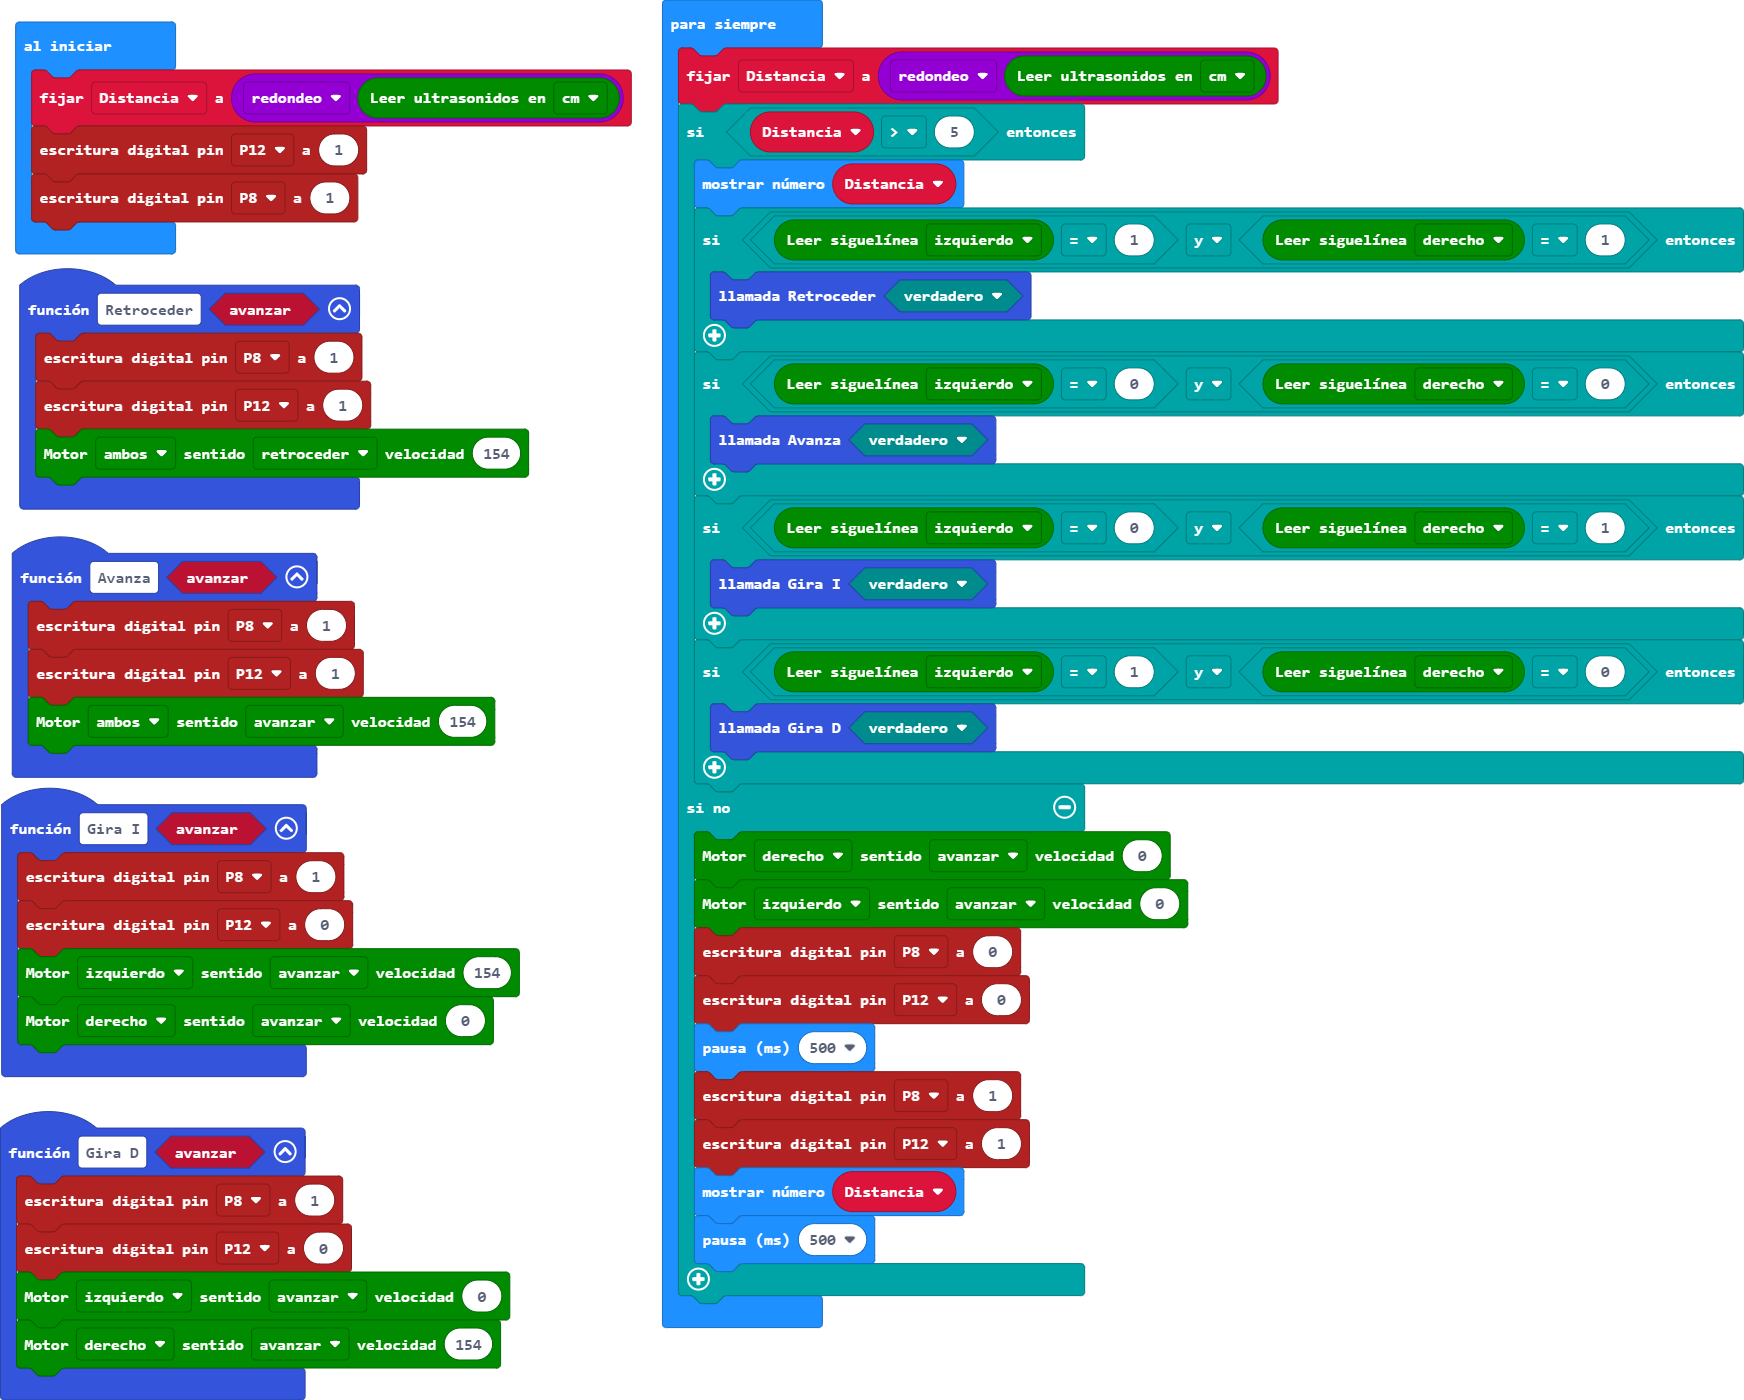
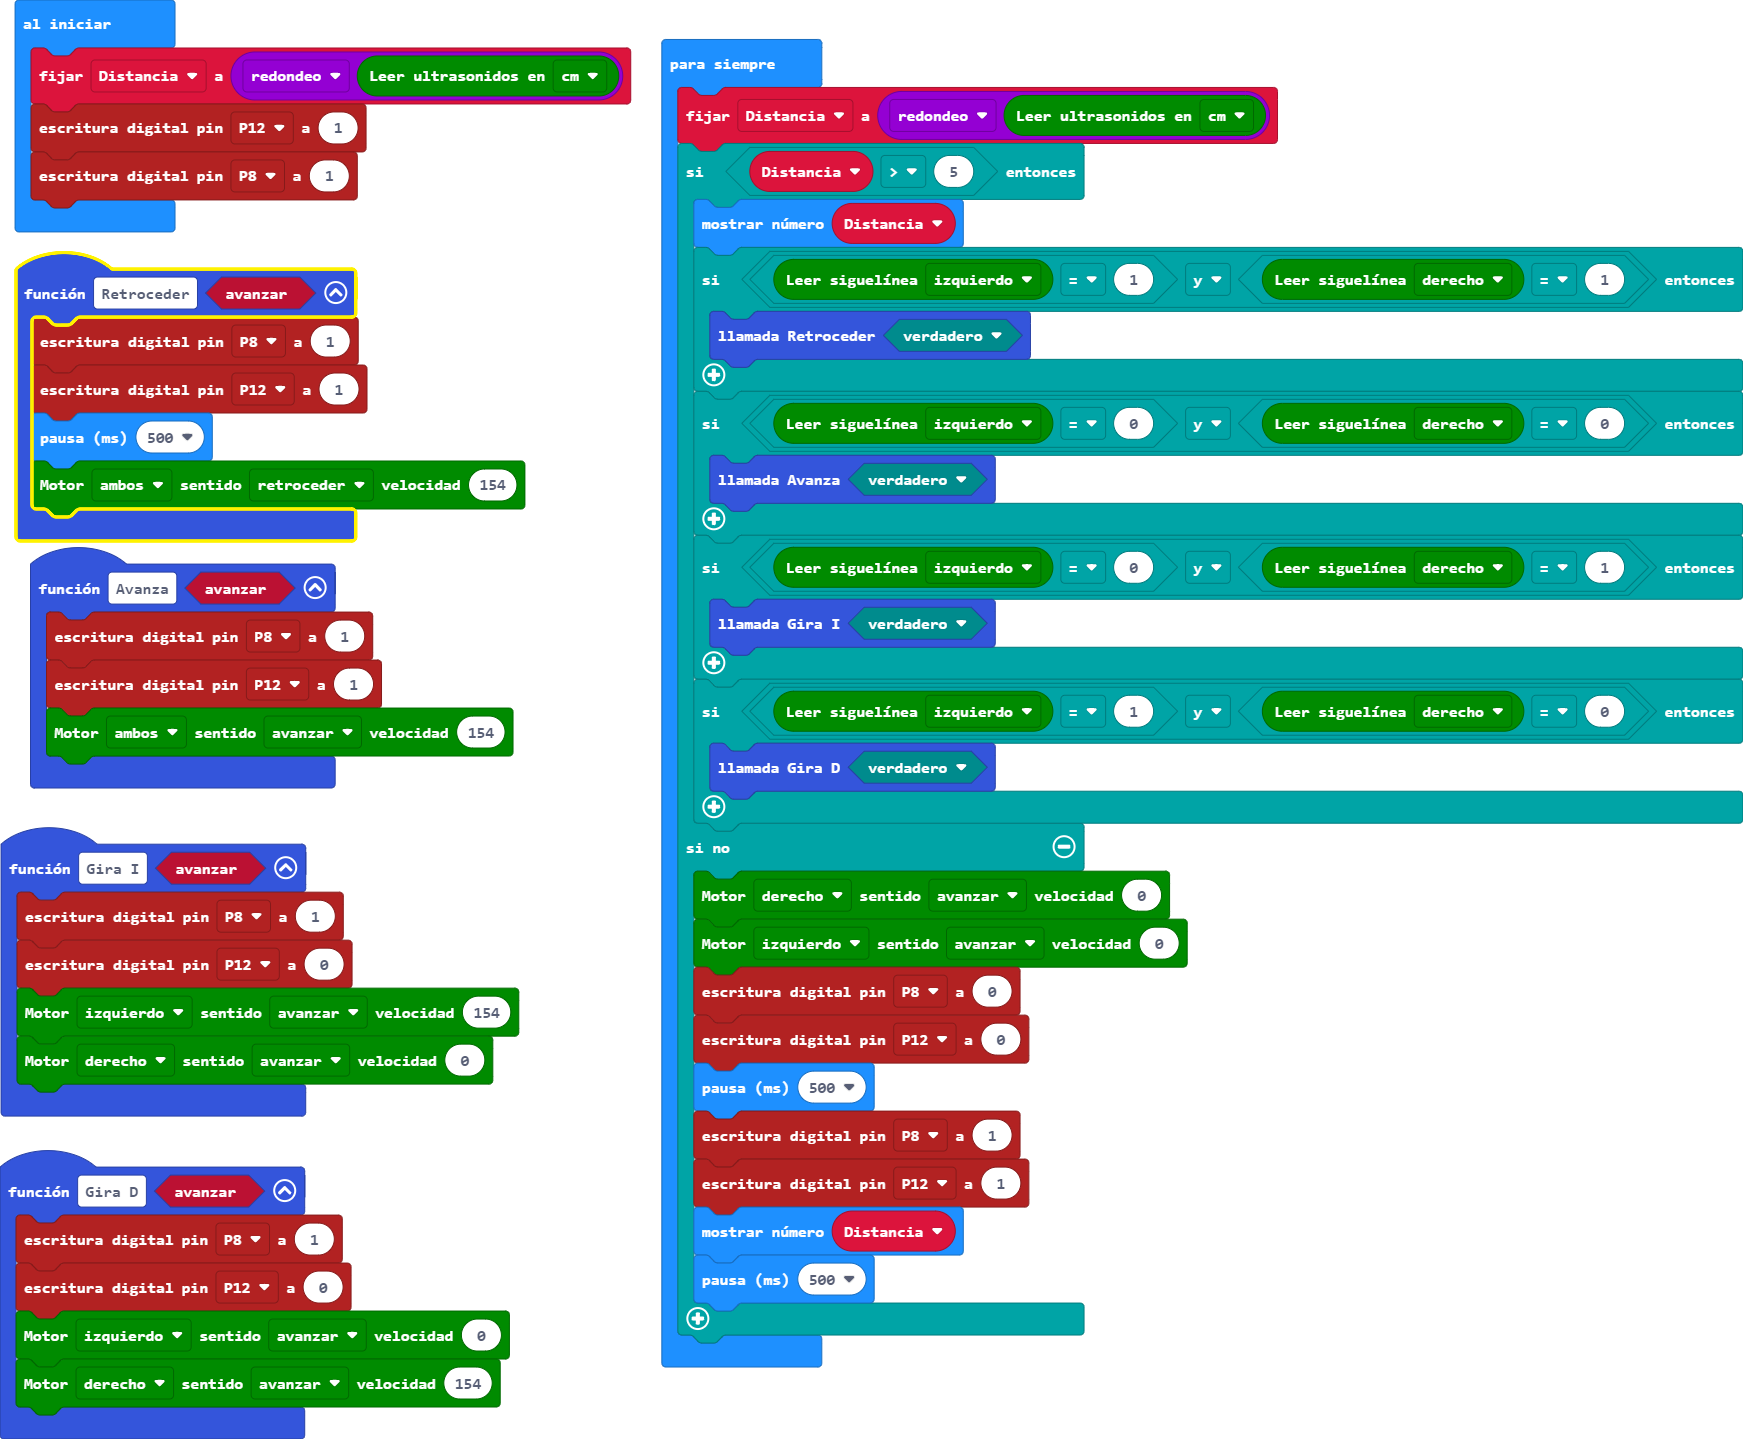
Actualizar main.blocks, main.ts

diff --git a/main.ts b/main.ts
@@ -12,6 +12,7 @@ function Avanza (avanzar_: boolean) {
 function Retroceder (avanzar_: boolean) {
     pins.digitalWritePin(DigitalPin.P8, 1)
     pins.digitalWritePin(DigitalPin.P12, 1)
+    basic.pause(500)
     maqueen.motorRun(maqueen.Motors.All, maqueen.Dir.CCW, 154)
 }
 function Gira_I (avanzar_: boolean) {
